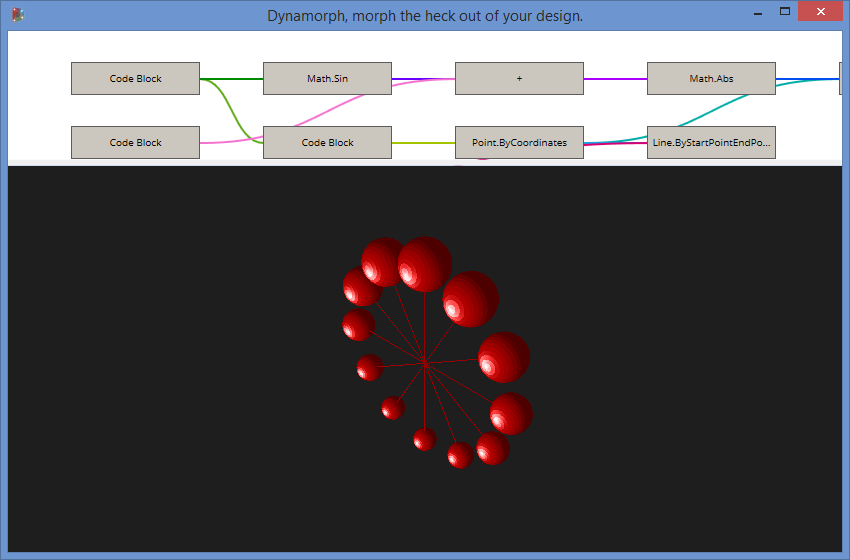
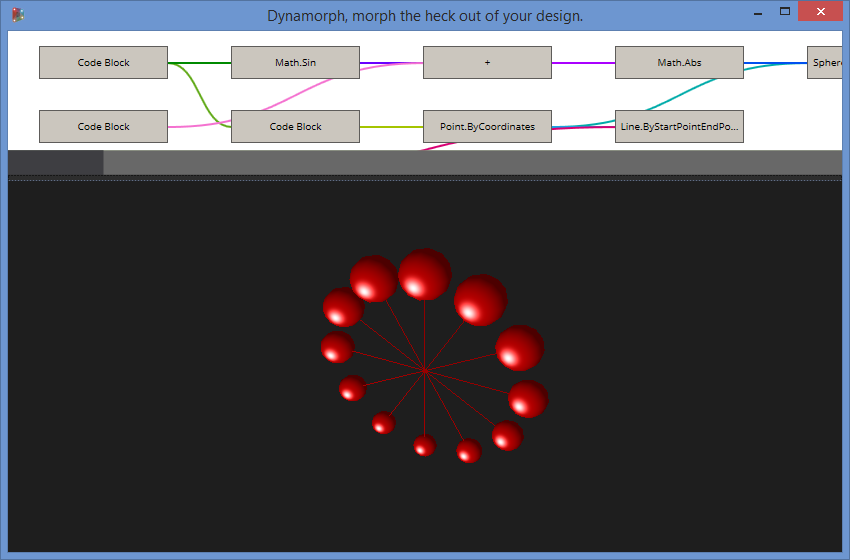
Implemented "SliderVisualHost" and incorporated it into "DynamorphControl"

Changed region(s): [[0.0, 0.0607, 1.0, 0.3339], [0.3671, 0.425, 0.6424, 0.85]]

diff --git a/src/Extensions/Dynamorph/Dynamorph.Net/DynamorphControl.xaml b/src/Extensions/Dynamorph/Dynamorph.Net/DynamorphControl.xaml
@@ -12,17 +12,27 @@
             <RowDefinition Height="auto"></RowDefinition>
             <RowDefinition Height="3*"></RowDefinition>
         </Grid.RowDefinitions>
-        <ScrollViewer Name="canvasScrollViewer"
-                      CanContentScroll="True"
-                      HorizontalScrollBarVisibility="Hidden"
-                      VerticalScrollBarVisibility="Hidden">
-            <Canvas Name="graphCanvas"
-                    SnapsToDevicePixels="True"
-                    Background="White"></Canvas>
-        </ScrollViewer>
+        <Grid Grid.Row="0">
+            <Grid.RowDefinitions>
+                <RowDefinition Height="*"></RowDefinition>
+                <RowDefinition Height="24"></RowDefinition>
+            </Grid.RowDefinitions>
+            <ScrollViewer Name="canvasScrollViewer"
+                          CanContentScroll="True"
+                          HorizontalScrollBarVisibility="Hidden"
+                          VerticalScrollBarVisibility="Hidden">
+                <Canvas Name="graphCanvas"
+                        SnapsToDevicePixels="True"
+                        Background="White"></Canvas>
+            </ScrollViewer>
+            <Canvas Name="sliderCanvas"
+                    Grid.Row="1"
+                    Background="GreenYellow"></Canvas>
+        </Grid>
         <GridSplitter Grid.Row="1"
                       Width="Auto"
                       Height="6"
+                      Background="#2d2d2d"
                       HorizontalAlignment="Stretch" />
         <Border Name="VisualizerHostElement"
                 Grid.Row="2"

diff --git a/src/Extensions/Dynamorph/Dynamorph.Net/GraphVisualHost.cs b/src/Extensions/Dynamorph/Dynamorph.Net/GraphVisualHost.cs
@@ -18,6 +18,10 @@ namespace Dynamorph
             NodeBorderColor,
             NodeTextColor,
 
+            SliderEdge,
+            SliderFill,
+            SliderDivider,
+
             Lime,
             Green,
             Emerald,
@@ -46,6 +50,10 @@ namespace Dynamorph
             Brushes.Add(new SolidColorBrush(Color.FromRgb(0xcb, 0xc6, 0xbe))); // NodeFillColor
             Brushes.Add(new SolidColorBrush(Color.FromRgb(0x5e, 0x5c, 0x5a))); // NodeBorderColor
             Brushes.Add(new SolidColorBrush(Color.FromRgb(0x00, 0x00, 0x00))); // NodeTextColor
+
+            Brushes.Add(new SolidColorBrush(Color.FromRgb(62, 62, 66)));       // SliderEdge
+            Brushes.Add(new SolidColorBrush(Color.FromRgb(104, 104, 104)));    // SliderFill
+            Brushes.Add(new SolidColorBrush(Color.FromRgb(30, 30, 30)));       // SliderDivider
 
             Brushes.Add(new SolidColorBrush(Color.FromRgb(164, 196, 0)));   // Lime
             Brushes.Add(new SolidColorBrush(Color.FromRgb(96, 169, 23)));   // Green
@@ -86,6 +94,106 @@ namespace Dynamorph
         }
 
         internal static readonly List<SolidColorBrush> Brushes;
+    }
+
+    class SliderVisualHost : FrameworkElement
+    {
+        private TranslateTransform horzTransform = null;
+        private VisualCollection childVisuals = null;
+        private DrawingVisual sliderBackground = new DrawingVisual();
+        private ScrollViewer canvasScrollViewer = null;
+
+        #region Public Operational Class Methods
+
+        internal SliderVisualHost(ScrollViewer canvasScrollViewer)
+        {
+            this.childVisuals = new VisualCollection(this);
+            this.childVisuals.Add(sliderBackground);
+            this.canvasScrollViewer = canvasScrollViewer;
+
+            this.horzTransform = new TranslateTransform();
+            this.RenderTransform = horzTransform;
+
+            this.Loaded += OnSliderVisualHostLoaded;
+            this.canvasScrollViewer.ScrollChanged += OnCanvasScrollChanged;
+        }
+
+        #endregion
+
+        #region FrameworkElement Overridable Methods
+
+        protected override int VisualChildrenCount
+        {
+            get { return childVisuals.Count; }
+        }
+
+        protected override Visual GetVisualChild(int index)
+        {
+            return childVisuals[index];
+        }
+
+        private Canvas ParentCanvas
+        {
+            get
+            {
+                Canvas parentCanvas = this.Parent as Canvas;
+                if (parentCanvas == null)
+                {
+                    var message = "SliderVisualHost expects a Canvas as parent";
+                    throw new InvalidOperationException(message);
+                }
+
+                return parentCanvas;
+            }
+        }
+
+        #endregion
+
+        #region Private Class Event Handlers
+
+        private void OnSliderVisualHostLoaded(object sender, RoutedEventArgs e)
+        {
+        }
+
+        private void OnCanvasScrollChanged(object sender, ScrollChangedEventArgs e)
+        {
+            RenderSliderBackground(e);
+        }
+
+        #endregion
+
+        #region Private Class Helper Methods
+
+        private void RenderSliderBackground(ScrollChangedEventArgs e)
+        {
+            if (e.ExtentWidthChange > 0.0)
+            {
+                var drawingContext = this.sliderBackground.RenderOpen();
+                var fillBrush = GraphResources.Brush(GraphResources.BrushIndex.SliderFill);
+                var edgeBrush = GraphResources.Brush(GraphResources.BrushIndex.SliderEdge);
+
+                var height = ParentCanvas.ActualHeight + 1;
+                var edgeWidth = (Config.HorzGap + (0.5 * Config.NodeWidth));
+
+                // Fill the entire slider region with slider fill brush.
+                Rect sliderRegion = new Rect(-0.5, -0.5, e.ExtentWidth + 1, height);
+                drawingContext.DrawRectangle(fillBrush, null, sliderRegion);
+
+                // Render both the edges (left and right ends of the slider).
+                var edgeRegion = sliderRegion;
+                edgeRegion.Width = edgeWidth;
+                drawingContext.DrawRectangle(edgeBrush, null, edgeRegion);
+                edgeRegion.X = sliderRegion.Right - edgeWidth;
+                drawingContext.DrawRectangle(edgeBrush, null, edgeRegion);
+
+                drawingContext.Close();
+            }
+
+            // Update the horizontal offset of background.
+            this.horzTransform.X = -e.HorizontalOffset;
+        }
+
+        #endregion
     }
 
     class GraphVisualHost : FrameworkElement
@@ -202,7 +310,7 @@ namespace Dynamorph
             }
 
             drawingContext.Close(); // Done drawing, commit changes.
-            boundingBox.Inflate(Config.HorzGap * 2, Config.VertGap * 2);
+            boundingBox.Inflate(Config.HorzGap, Config.VertGap);
             parentCanvas.Width = boundingBox.Width;
             parentCanvas.Height = boundingBox.Height;
         }

diff --git a/src/Extensions/Dynamorph/Dynamorph.Net/SynthesizedGraph.cs b/src/Extensions/Dynamorph/Dynamorph.Net/SynthesizedGraph.cs
@@ -10,8 +10,6 @@ namespace Dynamorph
     {
         internal static readonly double HorzGap = 32.0;
         internal static readonly double VertGap = 16.0;
-        internal static readonly double LeftMargin = HorzGap;
-        internal static readonly double TopMargin = VertGap;
         internal static readonly double NodeWidth = 128.0;
         internal static readonly double NodeHeight = 32.0;
         internal static readonly double HorzSpace = ((2 * HorzGap) + NodeWidth);
@@ -39,11 +37,8 @@ namespace Dynamorph
 
         internal void UpdateNodeLayout()
         {
-            var top = (Config.TopMargin + (Config.VertSpace * DisplayRow));
-            var left = (Config.LeftMargin + (Config.HorzSpace * Depth));
-
-            top = top + Config.VertGap;
-            left = left + Config.HorzGap;
+            var top = (Config.VertGap + (Config.VertSpace * DisplayRow));
+            var left = (Config.HorzGap + (Config.HorzSpace * Depth));
             this.rect = new Rect(left, top, Config.NodeWidth, Config.NodeHeight);
 
             inputPoint = new Point(rect.Left, rect.Top + (0.5 * rect.Height));

diff --git a/src/Extensions/Dynamorph/Dynamorph.Net/DynamorphControl.xaml.cs b/src/Extensions/Dynamorph/Dynamorph.Net/DynamorphControl.xaml.cs
@@ -28,6 +28,7 @@ namespace Dynamorph
         private SynthesizedGraph pendingGraph = null;
         private VisualizerHwndHost visualizer = null;
         private GraphVisualHost graphVisualHost = null;
+        private SliderVisualHost sliderVisualHost = null;
 
         // Cursor resources.
         private Cursor[] canvasCursors = null;
@@ -92,6 +93,9 @@ namespace Dynamorph
             this.graphCanvas.MouseDown += OnGraphCanvasMouseDown;
             this.graphCanvas.MouseUp += OnGraphCanvasMouseUp;
             this.graphCanvas.MouseMove += OnGraphCanvasMouseMove;
+
+            this.sliderVisualHost = new SliderVisualHost(canvasScrollViewer);
+            this.sliderCanvas.Children.Add(sliderVisualHost);
 
             if (this.pendingGraph != null)
             {

diff --git a/src/Extensions/Dynamorph/README.md b/src/Extensions/Dynamorph/README.md
@@ -40,6 +40,7 @@ Dynamorph, morph the heck out of your design.
 - [ ] Move shader source to external files
 - [ ] Remove normal computation in GetTriangleGeometries
 - [ ] Implement logging mechanism
+- [ ] Incorporate [debugging facility](http://www.opengl.org/registry/specs/ARB/debug_output.txt) provided by OpenGL
 - [ ] Display OpenGL logs in Dynamorph window
 - [ ] Implement Track Ball class for navigation
 - [ ] Update aspect ratio when window is sized
@@ -56,5 +57,5 @@ Dynamorph, morph the heck out of your design.
 ## Screenshot Of The Day ##
 This is the latest screenshot of Dynamorph. It will be updated as and when there is any visible change to Dynamorph to reflect the latest development.
 
-#### Points, line-strips, triangles and Phong shading! :) ####
+#### Slider, and more accurate surface normals from ASM! :) ####
 ![Image](https://raw.githubusercontent.com/Benglin/Dynamo/Recharge_Ben/src/Extensions/Dynamorph/dynamorph-screen.png)
